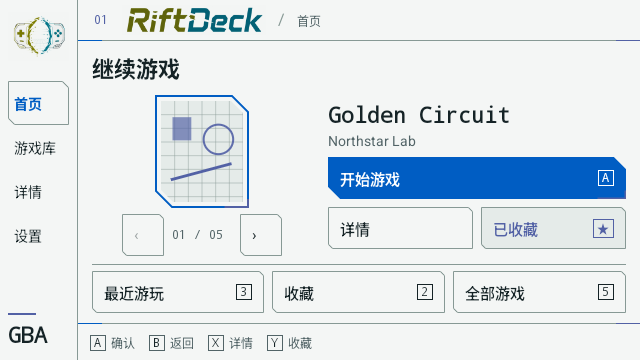
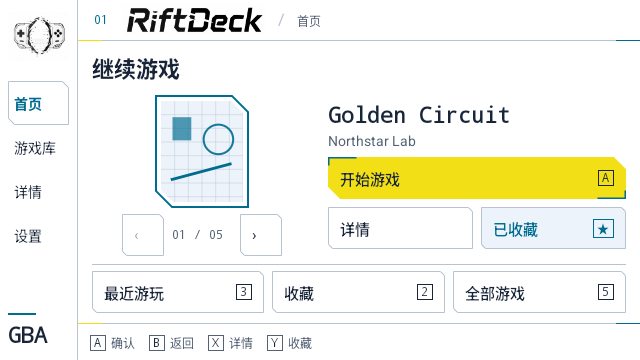
feat: Update theme colors and improve UI elements for better contrast and accessibility

diff --git a/app/src/main/java/com/riftdeck/core/ui/theme/FrontendTheme.kt b/app/src/main/java/com/riftdeck/core/ui/theme/FrontendTheme.kt
@@ -13,6 +13,8 @@ data class FrontendTheme(
     val primary: Color,
     val secondary: Color,
     val tertiary: Color,
+    val onPrimary: Color,
+    val accentText: Color,
     val onAccent: Color,
     val textPrimary: Color,
     val textSecondary: Color,
@@ -25,25 +27,33 @@ data class FrontendTheme(
 internal fun frontendTheme(isDark: Boolean, palette: ThemePalette): FrontendTheme {
     val accents = when (palette) {
         ThemePalette.Rift -> if (isDark) listOf(0xFFF8F800, 0xFF00F0F0, 0xFFFF4FA3)
-            else listOf(0xFF646800, 0xFF006A73, 0xFFA52C68)
+            else listOf(0xFFF3DF16, 0xFF006C90, 0xFFB02675)
         ThemePalette.Ocean -> if (isDark) listOf(0xFF65C7FF, 0xFFB2A1FF, 0xFFFF94C7)
-            else listOf(0xFF005DC3, 0xFF5261A5, 0xFF9F326A)
+            else listOf(0xFF096DE0, 0xFF5C45BF, 0xFFBE226A)
         ThemePalette.Ember -> if (isDark) listOf(0xFFFFB064, 0xFFD1A0FF, 0xFFFF8599)
-            else listOf(0xFFAA4300, 0xFF79529E, 0xFF9D384D)
+            else listOf(0xFFFF9A3D, 0xFF7043B7, 0xFFB63251)
     }.map { Color(it) }
+    // Bright fills and readable text/focus colors have different contrast needs on white.
+    val accentText = if (isDark) accents[0] else when (palette) {
+        ThemePalette.Rift -> Color(0xFF006C90)
+        ThemePalette.Ocean -> Color(0xFF0865D1)
+        ThemePalette.Ember -> Color(0xFFA83F09)
+    }
     return FrontendTheme(
         isDark = isDark,
-        background = Color(if (isDark) 0xFF000000 else 0xFFF4F6F5),
-        surface = Color(if (isDark) 0xFF090D0F else 0xFFFFFFFF),
-        surfaceElevated = Color(if (isDark) 0xFF142023 else 0xFFE5EBE9),
+        background = Color(if (isDark) 0xFF000000 else 0xFFFFFFFF),
+        surface = Color(if (isDark) 0xFF090D0F else 0xFFF7F9FC),
+        surfaceElevated = Color(if (isDark) 0xFF142023 else 0xFFEDF3FA),
         primary = accents[0],
         secondary = accents[1],
         tertiary = accents[2],
+        onPrimary = if (isDark) Color.Black else if (palette == ThemePalette.Ocean) Color.White else Color(0xFF182438),
+        accentText = accentText,
         onAccent = Color(if (isDark) 0xFF000000 else 0xFFFFFFFF),
-        textPrimary = Color(if (isDark) 0xFFEEF5F3 else 0xFF152326),
-        textSecondary = Color(if (isDark) 0xFFA5B6B8 else 0xFF526467),
-        focusBorder = accents[0],
-        outline = Color(if (isDark) 0xFF34484B else 0xFF879995),
+        textPrimary = Color(if (isDark) 0xFFEEF5F3 else 0xFF182438),
+        textSecondary = Color(if (isDark) 0xFFA5B6B8 else 0xFF556276),
+        focusBorder = accentText,
+        outline = Color(if (isDark) 0xFF34484B else 0xFFB8C3D1),
         error = Color(if (isDark) 0xFFFF746C else 0xFFB32D25),
         success = Color(if (isDark) 0xFF70E2A0 else 0xFF196B40),
     )

diff --git a/app/src/main/java/com/riftdeck/core/ui/components/RiftDeckBrand.kt b/app/src/main/java/com/riftdeck/core/ui/components/RiftDeckBrand.kt
@@ -8,7 +8,7 @@ import androidx.compose.material3.MaterialTheme
 import androidx.compose.material3.Text
 import androidx.compose.runtime.Composable
 import androidx.compose.ui.Modifier
-import androidx.compose.ui.graphics.BlendMode
+import androidx.compose.ui.graphics.ColorMatrix
 import androidx.compose.ui.graphics.ColorFilter
 import androidx.compose.ui.layout.ContentScale
 import androidx.compose.ui.res.stringResource
@@ -16,6 +16,15 @@ import androidx.compose.ui.unit.dp
 import com.riftdeck.R
 import com.riftdeck.core.ui.theme.LocalBrandArtwork
 import com.riftdeck.core.ui.theme.LocalFrontendTheme
+
+// A neutral, high-contrast ink treatment removes olive/teal casts while retaining the white backing.
+private val LightBrandFilter = ColorFilter.colorMatrix(ColorMatrix().apply {
+    setToSaturation(0f)
+    for (row in 0..2) {
+        for (column in 0..2) this[row, column] *= 1.5f
+        this[row, 4] = -127.5f
+    }
+})
 
 @Composable
 fun RiftDeckEmblem(modifier: Modifier = Modifier) {
@@ -25,7 +34,7 @@ fun RiftDeckEmblem(modifier: Modifier = Modifier) {
     if (artwork != null) {
         Image(if (colors.isDark) artwork.darkEmblem else artwork.lightEmblem, stringResource(R.string.app_name), bounds,
             contentScale = ContentScale.Fit,
-            colorFilter = if (colors.isDark) null else ColorFilter.tint(colors.background, BlendMode.Multiply))
+            colorFilter = if (colors.isDark) null else LightBrandFilter)
     } else {
         Box(bounds)
     }
@@ -39,9 +48,9 @@ fun RiftDeckWordmark(modifier: Modifier = Modifier) {
     if (artwork != null) {
         Image(if (colors.isDark) artwork.darkWordmark else artwork.lightWordmark, stringResource(R.string.app_name), bounds,
             contentScale = ContentScale.Crop,
-            colorFilter = if (colors.isDark) null else ColorFilter.tint(colors.background, BlendMode.Multiply))
+            colorFilter = if (colors.isDark) null else LightBrandFilter)
     } else {
         Text(stringResource(R.string.app_name), modifier = bounds,
-            style = MaterialTheme.typography.titleLarge, color = LocalFrontendTheme.current.primary)
+            style = MaterialTheme.typography.titleLarge, color = LocalFrontendTheme.current.accentText)
     }
 }

diff --git a/app/src/main/java/com/riftdeck/core/ui/components/DeckScaffold.kt b/app/src/main/java/com/riftdeck/core/ui/components/DeckScaffold.kt
@@ -72,7 +72,7 @@ fun DeckScaffold(
                                 .clip(CutCornerShape(topEnd = 6.dp, bottomStart = 6.dp))
                                 .background(if (focused) colors.surfaceElevated else colors.background)
                                 .riftFrame(if (item == section) colors.outline else Color.Transparent,
-                                    colors.primary, colors.secondary, focused, cut = 6.dp, accents = focused)
+                                    colors.focusBorder, colors.secondary, focused, cut = 6.dp, accents = focused)
                                 .semantics { selected = item == section }
                                 .controllerClickable { onNavigate(item) }
                                 .padding(horizontal = 6.dp, vertical = if (compact) 10.dp else 14.dp),
@@ -81,10 +81,10 @@ fun DeckScaffold(
                         ) {
                             if (!compact) Text(String.format(Locale.ROOT, "%02d", item.ordinal + 1),
                                 style = MaterialTheme.typography.labelMedium,
-                                color = if (item == section) colors.primary else colors.textSecondary)
+                                color = if (item == section) colors.accentText else colors.textSecondary)
                             Text(stringResource(if (item == DeckSection.Detail) R.string.hint_details else item.title),
                                 fontSize = 14.sp, fontWeight = if (item == section) FontWeight.Bold else FontWeight.Normal,
-                                color = if (item == section) colors.primary else colors.textPrimary, maxLines = 1)
+                                color = if (item == section) colors.accentText else colors.textPrimary, maxLines = 1)
                         }
                     }
                     Spacer(Modifier.weight(1f))

diff --git a/app/src/test/java/com/riftdeck/core/ui/theme/FrontendThemeTest.kt b/app/src/test/java/com/riftdeck/core/ui/theme/FrontendThemeTest.kt
@@ -22,12 +22,13 @@ class FrontendThemeTest {
             val theme = frontendTheme(dark, palette)
             val surfaces = listOf(theme.background, theme.surface, theme.surfaceElevated)
             for (surface in surfaces) {
-                for (text in listOf(theme.textPrimary, theme.textSecondary, theme.primary, theme.secondary, theme.tertiary)) {
+                for (text in listOf(theme.textPrimary, theme.textSecondary, theme.accentText, theme.secondary, theme.tertiary)) {
                     assertTrue("$palette dark=$dark text contrast=${contrast(text, surface)}", contrast(text, surface) >= 4.5)
                 }
                 assertTrue("$palette dark=$dark focus", contrast(theme.focusBorder, surface) >= 3.0)
             }
-            for (fill in listOf(theme.primary, theme.secondary, theme.tertiary, theme.error)) {
+            assertTrue("$palette dark=$dark primary control", contrast(theme.onPrimary, theme.primary) >= 4.5)
+            for (fill in listOf(theme.secondary, theme.tertiary, theme.error)) {
                 assertTrue("$palette dark=$dark filled control", contrast(theme.onAccent, fill) >= 4.5)
             }
         }

diff --git a/app/src/main/java/com/riftdeck/core/ui/components/DeckNoticeDialog.kt b/app/src/main/java/com/riftdeck/core/ui/components/DeckNoticeDialog.kt
@@ -31,7 +31,7 @@ fun DeckNoticeDialog(title: String, message: String, primaryLabel: String, onCon
                 else -> true
             }
         }, enabled = true, modifier = Modifier.padding(24.dp).widthIn(max = 520.dp).fillMaxWidth()) {
-            Column(Modifier.background(colors.surface).border(2.dp, colors.primary).padding(24.dp),
+            Column(Modifier.background(colors.surface).border(2.dp, colors.focusBorder).padding(24.dp),
                 verticalArrangement = Arrangement.spacedBy(16.dp)) {
                 Text(title, color = colors.textPrimary, style = MaterialTheme.typography.headlineMedium)
                 Text(message, color = colors.textSecondary, style = MaterialTheme.typography.bodyLarge)

diff --git a/app/src/main/java/com/riftdeck/feature/platform/PlatformScreen.kt b/app/src/main/java/com/riftdeck/feature/platform/PlatformScreen.kt
@@ -217,7 +217,7 @@ private fun LibraryRow(game: Game, position: Int, selected: Boolean, requester: 
             Text(listOfNotNull(game.releaseYear?.toString(), game.genre).joinToString(" · "), color = colors.textSecondary,
                 style = MaterialTheme.typography.labelMedium, maxLines = 1, overflow = TextOverflow.Ellipsis)
         }
-        Text(if (game.favorite) "★" else position.toString(), color = if (game.favorite) colors.primary else colors.textSecondary,
+        Text(if (game.favorite) "★" else position.toString(), color = if (game.favorite) colors.accentText else colors.textSecondary,
             style = MaterialTheme.typography.labelMedium)
     }
 }

diff --git a/app/src/main/java/com/riftdeck/core/ui/components/GamePresentation.kt b/app/src/main/java/com/riftdeck/core/ui/components/GamePresentation.kt
@@ -47,7 +47,7 @@ fun GameStageCover(
         .controllerClickable(onClick = onClick)
     Box(modifier.graphicsLayer { scaleX = scale; scaleY = scale }.then(interactive)
         .clip(CutCornerShape(topEnd = 16.dp, bottomStart = 16.dp))
-        .riftFrame(colors.outline, colors.primary, colors.secondary, focused, cut = 16.dp).padding(6.dp)) {
+        .riftFrame(colors.outline, colors.focusBorder, colors.secondary, focused, cut = 16.dp).padding(6.dp)) {
         GameArtwork(game, stringResource(R.string.artwork_description, game.title), Modifier.fillMaxSize()
             .clip(CutCornerShape(topEnd = 12.dp, bottomStart = 12.dp)), showLabel = showLabel)
     }

diff --git a/app/src/main/java/com/riftdeck/core/ui/components/NeonActionButton.kt b/app/src/main/java/com/riftdeck/core/ui/components/NeonActionButton.kt
@@ -39,7 +39,7 @@ fun NeonActionButton(
     var focused by remember { mutableStateOf(false) }
     val cut = if (primary) 12.dp else 4.dp
     val shape = CutCornerShape(topEnd = cut, bottomStart = cut)
-    val contentColor = if (primary) colors.onAccent else if (selected) colors.secondary else colors.textPrimary
+    val contentColor = if (primary) colors.onPrimary else if (selected) colors.secondary else colors.textPrimary
     Row(
         modifier = modifier
             .then(if (focusRequester != null) Modifier.focusRequester(focusRequester) else Modifier)

diff --git a/app/src/main/java/com/riftdeck/core/ui/components/EmptyLibraryState.kt b/app/src/main/java/com/riftdeck/core/ui/components/EmptyLibraryState.kt
@@ -47,7 +47,7 @@ fun EmptyLibraryState(
                 style = Stroke(width = 3.dp.toPx()),
             )
             drawLine(
-                color = colors.primary,
+                color = colors.accentText,
                 start = Offset(size.width * 0.28f, size.height * 0.5f),
                 end = Offset(size.width * 0.72f, size.height * 0.5f),
                 strokeWidth = 3.dp.toPx(),

diff --git a/app/src/main/java/com/riftdeck/core/ui/theme/RiftDeckTheme.kt b/app/src/main/java/com/riftdeck/core/ui/theme/RiftDeckTheme.kt
@@ -92,7 +92,7 @@ fun RiftDeckTheme(
         val base = if (isDark) darkColorScheme() else lightColorScheme()
         base.copy(
             primary = colors.primary,
-            onPrimary = colors.onAccent,
+            onPrimary = colors.onPrimary,
             secondary = colors.secondary,
             onSecondary = colors.onAccent,
             tertiary = colors.tertiary,

diff --git a/design-demos/THEME_VALIDATION.md b/design-demos/THEME_VALIDATION.md
@@ -4,7 +4,7 @@ Settings → Appearance now offers System (default), Light and Dark modes, with 
 
 Library rows, library filters and settings choices share the same cut-corner focus frame. Touch selection retains visible focus. D-pad navigation moves focus without changing the saved theme until A is pressed.
 
-Light mode uses dedicated emblem and wordmark artwork. The Android launcher uses the RiftDeck emblem in an adaptive icon, with a separate monochrome layer. Asset briefs and final image-generation prompts are recorded in [brand-light.prompts.json](assets/brand-light.prompts.json).
+Light mode uses white surfaces, a pale blue-gray selection fill and dedicated emblem and wordmark artwork rendered in graphite. Bright primary fills have separate text and focus colors to retain contrast without muddying the palette. The Android launcher uses the RiftDeck emblem in an adaptive icon, with a separate monochrome layer. Asset briefs and final image-generation prompts are recorded in [brand-light.prompts.json](assets/brand-light.prompts.json).
 
 ## Validation
 
